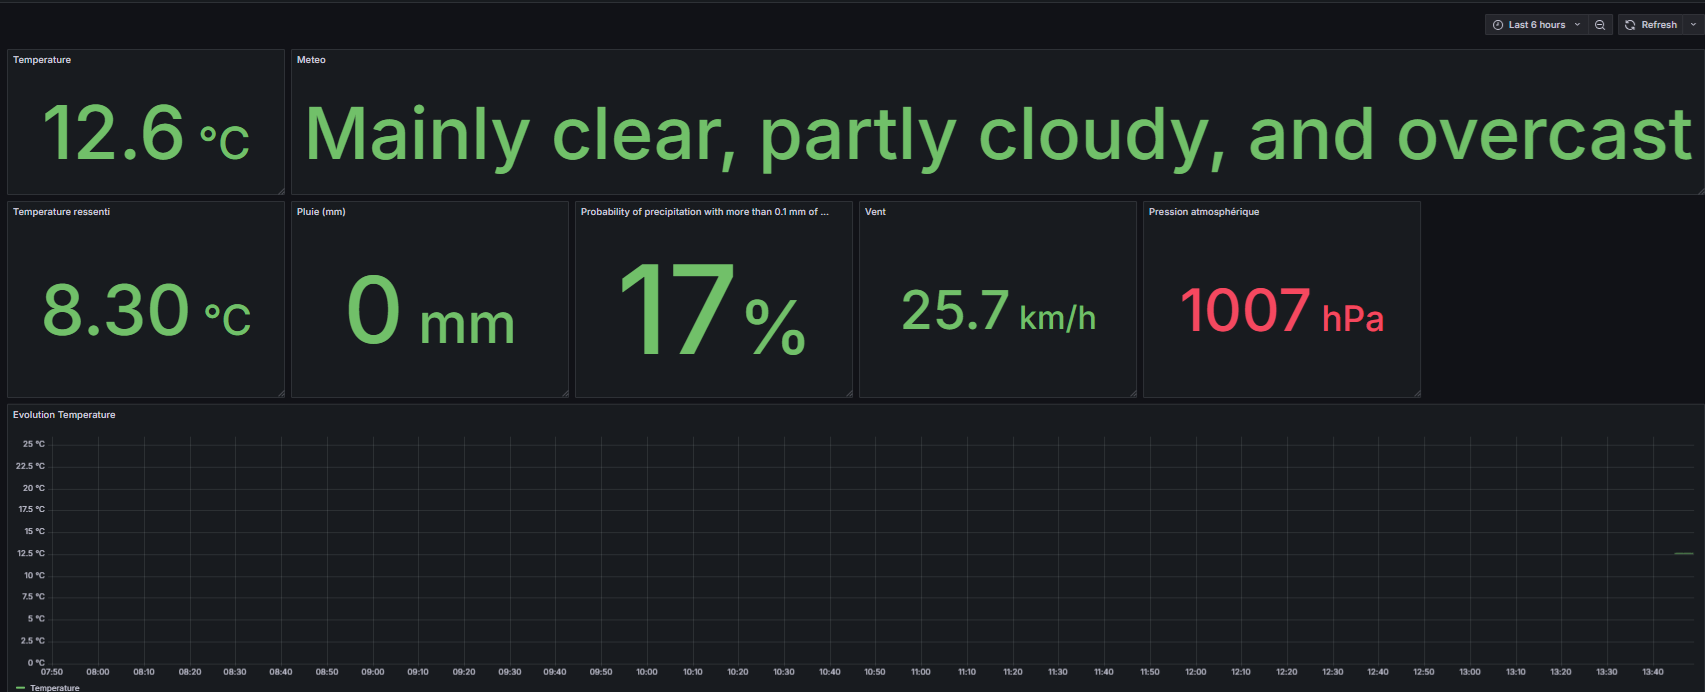
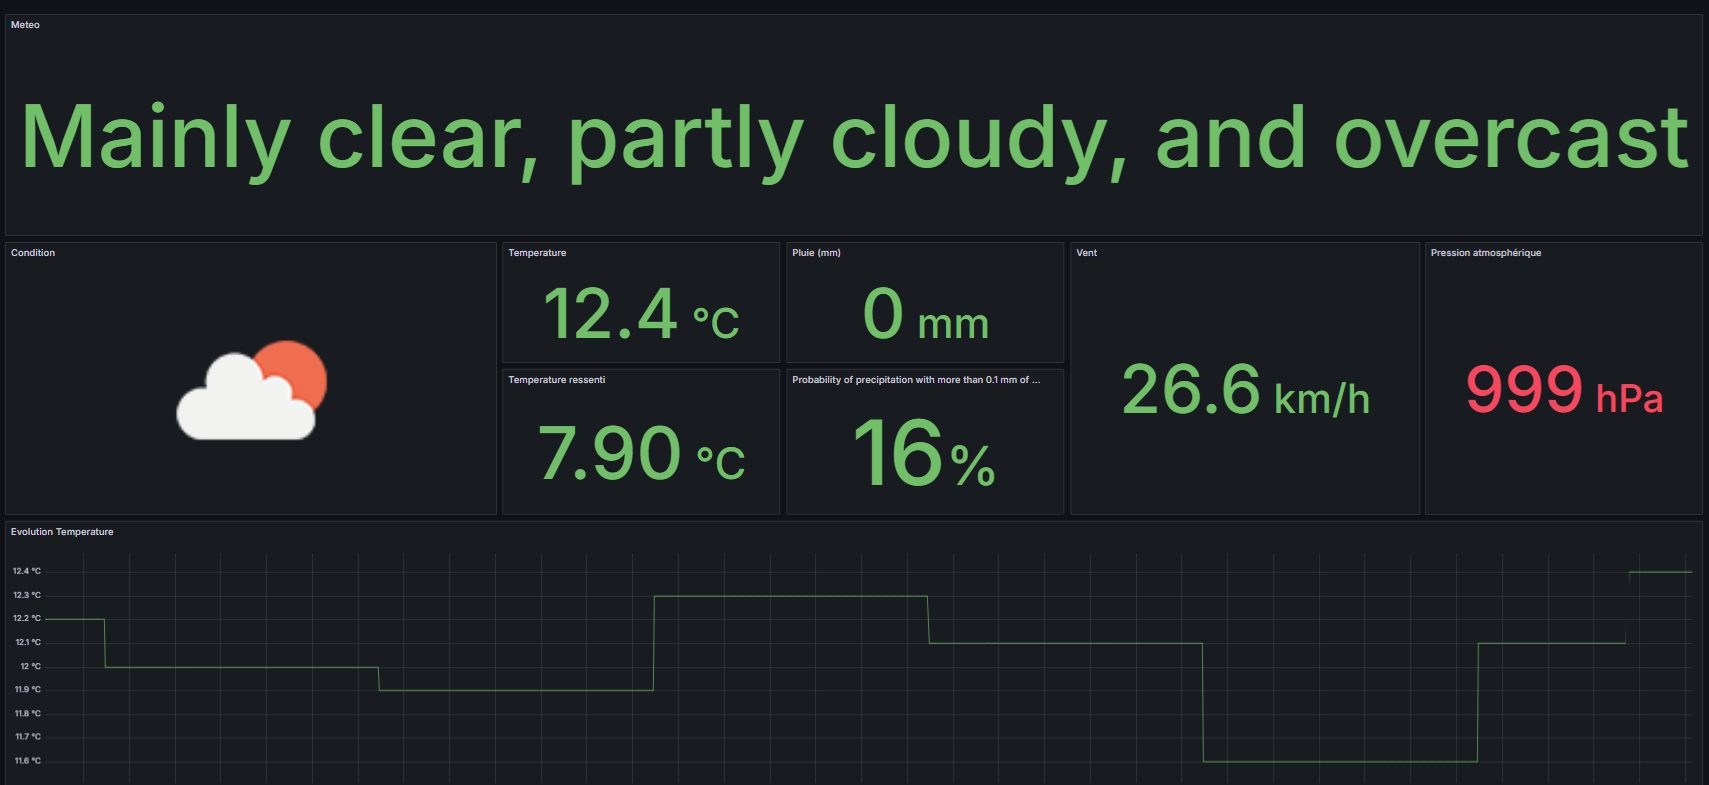
weather condition

diff --git a/src/metrics.rs b/src/metrics.rs
@@ -1,11 +1,11 @@
-use std::sync::Arc;
+use std::{collections::HashMap, sync::Arc};
 use tokio::signal;
 use warp::Filter;
 
-use crate::state::OMState;
+use crate::{config::WeatherCondition, state::OMState};
 
-pub async fn start_http_server(state: Arc<OMState>, port: u16) {
-    let metrics_route = warp::path("metrics").map(move || generate_metrics(state.clone()));
+pub async fn start_http_server(state: Arc<OMState>, port: u16,weather_condition_config: HashMap<String, WeatherCondition>) {
+    let metrics_route = warp::path("metrics").map(move || generate_metrics(state.clone(),weather_condition_config.clone()));
 
     let shutdown_signal = async {
         signal::ctrl_c()
@@ -21,11 +21,15 @@ pub async fn start_http_server(state: Arc<OMState>, port: u16) {
     server.await;
 }
 
-fn generate_metrics(state: Arc<OMState>) -> String {
+fn generate_metrics(state: Arc<OMState>, weather_condition_config: HashMap<String, WeatherCondition>) -> String {
     let mut metrics = String::new();
-    
+
     let weather_data = state.get_weather();
     if let Some(weather) = weather_data {
+
+
+        let icon = get_image_url(&weather_condition_config,weather.current.weather_code,weather.current.is_day).unwrap();
+       
         metrics.push_str(
             "# HELP weather_temperature_2m Current air temperature at 2 meters above ground in °C.\n",
         );
@@ -60,9 +64,17 @@ fn generate_metrics(state: Arc<OMState>) -> String {
             weather.current.precipitation_probability
         ));
 
+        metrics.push_str("# HELP weather_is_day 1 is day, 0 is night.\n");
+        metrics.push_str("# TYPE weather_is_day gauge\n");
+        metrics.push_str(&format!("weather_is_day {}\n", weather.current.is_day));
+
         metrics.push_str("# HELP weather_weather_code Weather condition as a numeric code. Follow WMO weather interpretation codes.\n");
         metrics.push_str("# TYPE weather_weather_code counter\n");
-        metrics.push_str(&format!("weather_weather_code {}\n", weather.current.weather_code));
+        metrics.push_str(&format!(
+            "weather_weather_code{{icon=\"{}\"}} {}\n",
+            icon,
+            weather.current.weather_code
+        ));
 
         metrics.push_str("# HELP weather_relative_humidity_2m Current relative humidity at 2 meters above ground in %.\n");
         metrics.push_str("# TYPE weather_relative_humidity_2m gauge\n");
@@ -87,7 +99,10 @@ fn generate_metrics(state: Arc<OMState>) -> String {
 
         metrics.push_str("# HELP weather_cloud_cover Cloud cover in %.\n");
         metrics.push_str("# TYPE weather_cloud_cover gauge\n");
-        metrics.push_str(&format!("weather_cloud_cover {}\n", weather.current.cloud_cover));
+        metrics.push_str(&format!(
+            "weather_cloud_cover {}\n",
+            weather.current.cloud_cover
+        ));
 
         metrics.push_str("# HELP weather_surface_pressure Pressure at mean sea level in hPa.\n");
         metrics.push_str("# TYPE weather_surface_pressure gauge\n");
@@ -98,10 +113,25 @@ fn generate_metrics(state: Arc<OMState>) -> String {
 
         metrics.push_str("# HELP weather_pressure_msl Pressure at mean sea level in hPa.\n");
         metrics.push_str("# TYPE weather_pressure_msl gauge\n");
-        metrics.push_str(&format!("weather_pressure_msl {}\n", weather.current.pressure_msl));
+        metrics.push_str(&format!(
+            "weather_pressure_msl {}\n",
+            weather.current.pressure_msl
+        ));
     } else {
         metrics.push_str("# No weather data available yet.\n");
     }
 
     metrics
+}
+
+
+fn get_image_url(weather_condition_config: &HashMap<String, WeatherCondition>, code: u16, time: u8) -> Option<String> {
+    let code_as_string = format!("{}", code);
+    weather_condition_config.get(&code_as_string).map(|weather| {
+        match time {
+            1 => weather.day.image.clone(),
+            0 => weather.night.image.clone(),
+            _ => "".to_string(),
+        }
+    })
 }

diff --git a/src/openmeteo/client.rs b/src/openmeteo/client.rs
@@ -11,6 +11,7 @@ const DEFAULT_USER_AGENT: &str = "OMClient/1.0";
 pub struct CurrentWeather { 
     pub temperature_2m: f64,
     pub relative_humidity_2m: u8,
+    pub is_day:u8,
     pub apparent_temperature: f64,
     pub precipitation: f64,
     pub precipitation_probability: f64,
@@ -64,7 +65,7 @@ impl OMClient {
 
     pub async fn get_current_weather(&self) -> Result<WeatherResponse, Error> {
         let url = format!(
-            "{}?latitude={}&longitude={}&current=temperature_2m,relative_humidity_2m,apparent_temperature,precipitation,precipitation_probability,rain,weather_code,cloud_cover,pressure_msl,surface_pressure,wind_speed_10m,wind_direction_10m&timezone={}",
+            "{}?latitude={}&longitude={}&current=temperature_2m,relative_humidity_2m,apparent_temperature,is_day,precipitation,precipitation_probability,rain,weather_code,cloud_cover,pressure_msl,surface_pressure,wind_speed_10m,wind_direction_10m&timezone={}",
             DEFAULT_FORECAST_ENDPOINT, self.latitude, self.longitude, self.timezone
         );
 

diff --git a/src/config.rs b/src/config.rs
@@ -1,5 +1,18 @@
 use serde::Deserialize;
+use std::collections::HashMap;
 use std::fs;
+
+#[derive(Debug, Deserialize,Clone)]
+pub struct WeatherConditionIcon {
+    pub description: String,
+    pub image: String,
+}
+
+#[derive(Debug, Deserialize,Clone)]
+pub struct WeatherCondition {
+    pub day: WeatherConditionIcon,
+    pub night: WeatherConditionIcon,
+}
 
 #[derive(Debug, Deserialize)]
 pub struct OpenMeteoConfig {
@@ -24,5 +37,10 @@ impl Config {
     pub fn load_from_file(path: &str) -> Result<Self, String> {
         let content = fs::read_to_string(path).map_err(|e| format!("Failed to read config file: {}", e))?;
         toml::from_str(&content).map_err(|e| format!("Failed to parse config file: {}", e))
+    }
+
+    pub fn load_weather_config(file_path: &str) -> HashMap<String, WeatherCondition> {
+        let file_content = fs::read_to_string(file_path).expect("Failed to read file");
+        serde_json::from_str(&file_content).expect("Failed to parse JSON")
     }
 }

diff --git a/src/main.rs b/src/main.rs
@@ -12,6 +12,7 @@ use config::Config;
 async fn main() -> Result<(), Box<dyn std::error::Error>> {
 
     let config = Config::load_from_file("config.toml").expect("Failed to load configuration");
+    let weather_condition_config = Config::load_weather_config("weather_condition_config.json");    
     println!("{:?}", config);
 
     let state = Arc::new(OMState::new());
@@ -27,7 +28,7 @@ async fn main() -> Result<(), Box<dyn std::error::Error>> {
         .await;
     });
 
-    start_http_server(state,config.server.port).await;
+    start_http_server(state,config.server.port,weather_condition_config).await;
 
     Ok(())
 }
